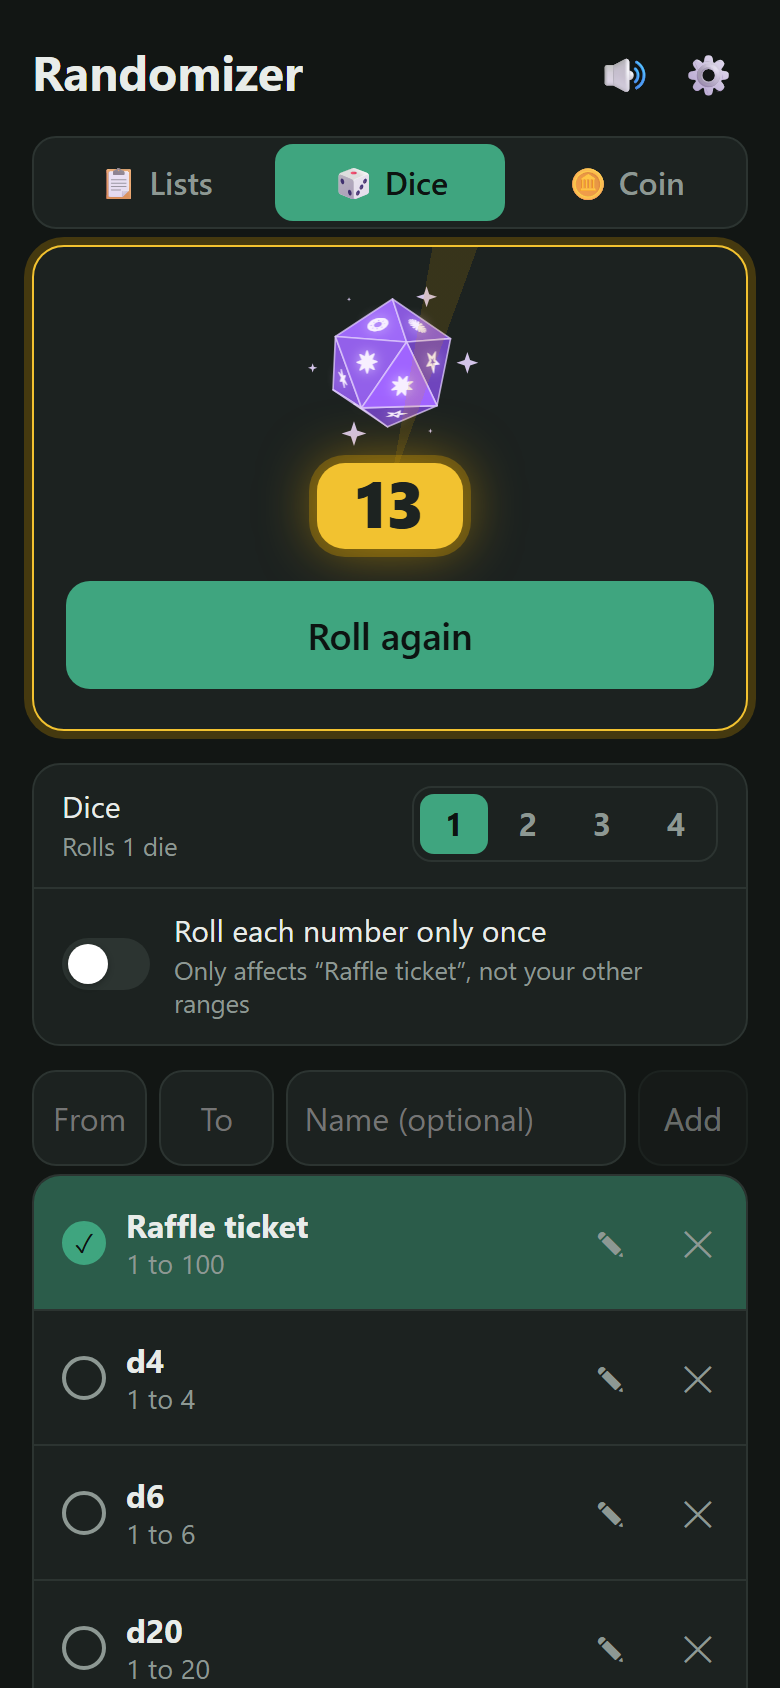
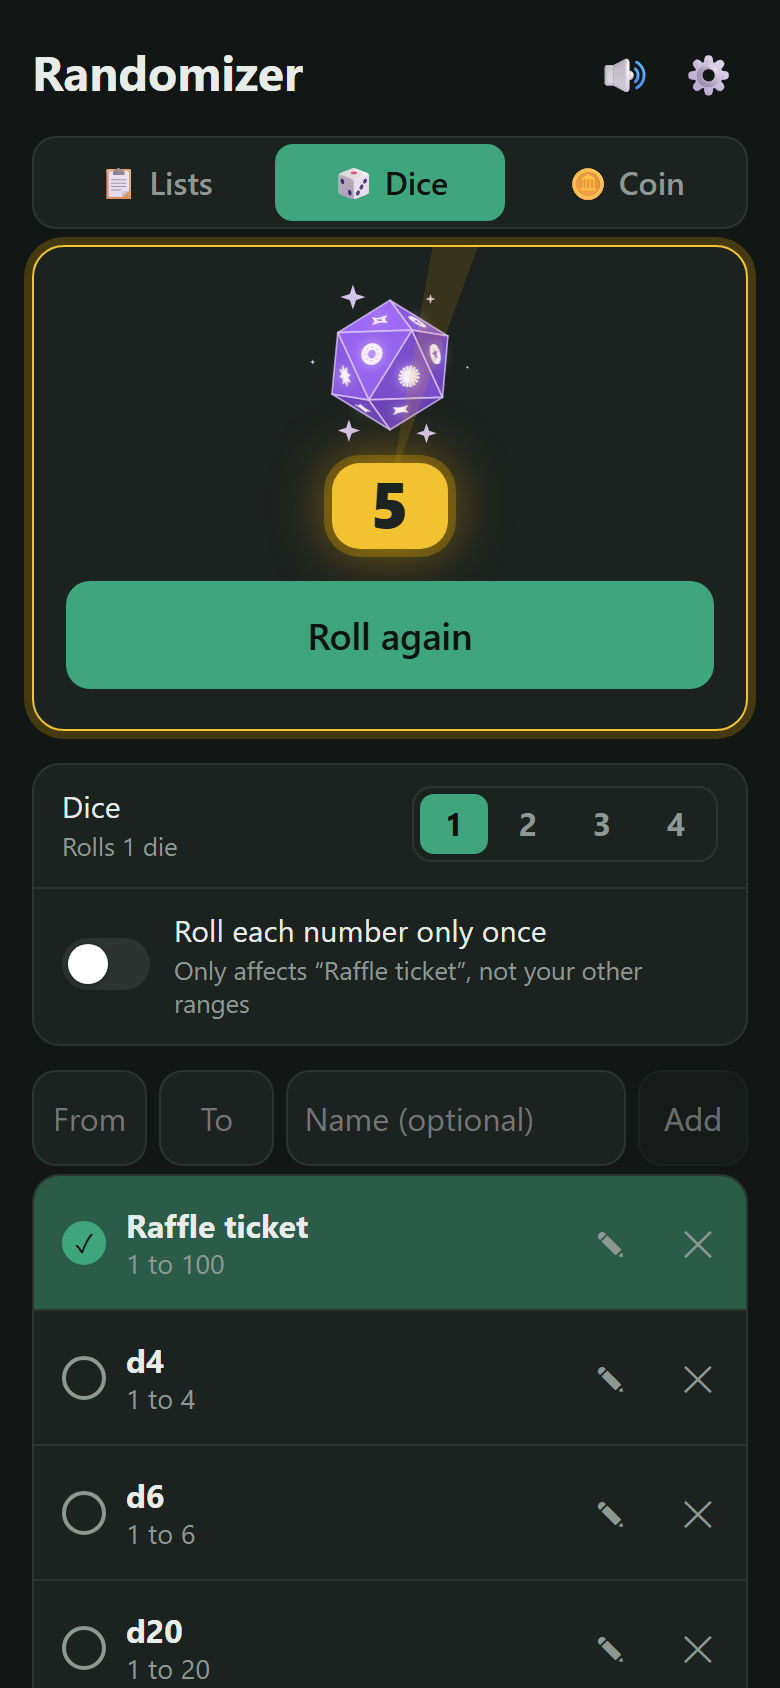
Dice roll straight to their face; magic die only spins upright
- A real die tumbles about one fixed axis, worked out backwards from the
  rolled face, so it slows to a stop there with no turn toward it at the end
- The magic die spins upright on a corner and slows to a stop where it is
- README: new "How the dice work" section (which die a range gets, the
  numbers on the faces, the magic die, how a roll is decided and shown)

Changed region(s): [[0.4, 0.154, 0.6154, 0.3389]]

diff --git a/index.html b/index.html
@@ -2700,11 +2700,13 @@ const dice = Array.from({ length: MAX_DICE }, () => {
   $('die').append(canvas);
   return { canvas, ctx: canvas.getContext('2d'), key: '' };
 });
-let diceAnim = null; // { start, ms, settle, last } while the dice spin
-let dieRate = 1;     // spin speed, slowing down along with the ticks
-const SPIN_TURN_MS = 600;
-// full speed at first, about a quarter by the end
-const dieSpeed = (progress) => (spinPause(0) / spinPause(progress)) ** 0.7;
+let diceAnim = null; // { start, ms } while the dice roll
+const TURN_MS = 600;  // how long one full turn takes at the start of a roll
+// How far through its turning a die is (0–1) at a point of the roll (0–1):
+// fast at first, slowing to a stop exactly at the end.
+const slowDown = (x) => 1 - (1 - x) ** 3;
+// upright with a corner on top, turned by angle (how a magic die spins)
+const upright = (d, angle) => qMul(qAxis([0, 1, 0], angle), qFromTo(d.shape.v[0], [0, 1, 0]));
 
 // Gives the shown dice the range's shape and numbers; keeps where they rest
 // unless the range changed.
@@ -2722,11 +2724,12 @@ function setupDice(range) {
     if (d.canvas.width !== px) d.canvas.width = d.canvas.height = px;
     if (d.key === key) return;
     d.key = key;
-    Object.assign(d, look, { shape: SHAPES[look.sides], glow: false, target: null });
+    Object.assign(d, look, { shape: SHAPES[look.sides], target: null });
     d.labels = d.shape.faces.map(f => look.magic ? magicSymbol() : String(range.from + (f.num - 1) % size));
-    // at rest it shows the highest number (or any symbol)
+    // at rest a real die shows its highest number; a magic die stands on a corner
     const top = d.shape.faces.reduce((a, f) => f.num > a.num ? f : a);
-    d.q = restPose(top, look.sides);
+    d.angle = 0.5;
+    d.q = look.magic ? upright(d, d.angle) : restPose(top, look.sides);
   });
 }
 
@@ -2764,8 +2767,7 @@ function drawDie(d, now) {
     f.idx.forEach((m, t) => (t ? ctx.lineTo : ctx.moveTo).call(ctx, ...corners[m]));
     ctx.closePath();
     if (d.magic) {
-      const glow = d.glow && fi === d.landedFace ? 1.35 : 1;
-      ctx.fillStyle = `rgb(${Math.min(255, (40 + 120 * lit) * glow)}, ${Math.min(255, (14 + 92 * lit) * glow)}, ${Math.min(255, (100 + 150 * lit) * glow)})`;
+      ctx.fillStyle = `rgb(${40 + 120 * lit}, ${14 + 92 * lit}, ${100 + 150 * lit})`;
       ctx.fill();
       ctx.strokeStyle = 'rgba(226, 206, 255, .75)';
     } else {
@@ -2830,40 +2832,45 @@ function drawSparkles(ctx, W, now, d) {
   }
 }
 
-// Starts the dice spinning upright (a corner on top) for ms, slowing down with
-// the ticks, and settling at the end on a face showing each die's value.
+// Rolls the dice for ms. A real die tumbles about one fixed axis and slows to a
+// stop: the tumbling is worked out backwards from the face it lands on, so it
+// simply rolls to a stop there, with no turning toward it at the end. A magic
+// die spins upright on a corner and slows to a stop wherever it is.
 function rollDice(range, values, ms) {
   setupDice(range);
+  // at the start a die turns about once per TURN_MS; slowDown spreads that out
+  const turns = ms / TURN_MS / 3;
   dice.forEach((d, i) => {
     if (d.canvas.hidden) return;
-    const faces = d.shape.faces.map((f, fi) => fi).filter(fi => d.magic || d.labels[fi] === String(values[i]));
-    d.landedFace = faces[randomInt(faces.length)];
-    d.target = restPose(d.shape.faces[d.landedFace], d.sides);
     d.from = d.q;
-    d.base = qFromTo(d.shape.v[0], [0, 1, 0]);
-    d.angle = Math.random() * Math.PI * 2;
-    d.speed = 0.9 + Math.random() * 0.2;
     d.seed = Math.random() * 6;
-    d.glow = false;
+    d.total = Math.PI * 2 * Math.max(1, turns) * (0.9 + Math.random() * 0.2);
+    if (d.magic) {
+      d.angle0 = d.angle;
+      d.angle = d.angle0 + d.total;
+      d.target = upright(d, d.angle);
+      return;
+    }
+    const faces = d.shape.faces.map((f, fi) => fi).filter(fi => d.labels[fi] === String(values[i]));
+    d.target = restPose(d.shape.faces[faces[randomInt(faces.length)]], d.sides);
+    // mostly forward over its top, a little to the side, different for each die
+    d.axis = unit([1, (Math.random() - 0.5) * 0.8, (Math.random() - 0.5) * 0.6]);
   });
-  dieRate = 1;
   if (ms <= 0) { landDice(); return; }
-  diceAnim = { start: performance.now(), ms, settle: Math.min(700, ms * 0.35), last: performance.now() };
+  diceAnim = { start: performance.now(), ms };
   requestAnimationFrame(diceFrame);
 }
 
 function diceFrame(now) {
   if (!diceAnim) return;
-  const e = now - diceAnim.start;
-  const dt = Math.min(50, Math.max(0, now - diceAnim.last));
-  diceAnim.last = now;
+  const e = Math.max(0, now - diceAnim.start);
+  const done = slowDown(Math.min(1, e / diceAnim.ms));
   for (const d of dice) {
     if (d.canvas.hidden || !d.target) continue;
-    d.angle += dt / SPIN_TURN_MS * Math.PI * 2 * dieRate * d.speed;
-    let q = qMul(qAxis([0, 1, 0], d.angle), d.base);
-    if (e < 220) q = qSlerp(d.from, q, ease(Math.max(0, e) / 220)); // from rest into the spin
-    const s = (e - (diceAnim.ms - diceAnim.settle)) / diceAnim.settle;
-    if (s > 0) q = qSlerp(q, d.target, ease(Math.min(1, s)));       // settling on the rolled face
+    let q = d.magic
+      ? upright(d, d.angle0 + d.total * done)
+      : qMul(qAxis(d.axis, d.total * (1 - done)), d.target); // the turning still to go, ending at the face
+    if (e < 220) q = qSlerp(d.from, q, ease(e / 220)); // from rest into the roll
     d.q = q;
   }
   drawDice(now);
@@ -2875,14 +2882,10 @@ function shuffleMagic() {
   for (const d of dice) if (!d.canvas.hidden && d.magic) d.labels = d.labels.map(magicSymbol);
 }
 
-// The dice come to rest on their rolled faces; a magic die's face lights up.
+// The dice come to rest where their roll ends.
 function landDice() {
   diceAnim = null;
-  for (const d of dice) {
-    if (d.canvas.hidden || !d.target) continue;
-    d.q = d.target;
-    d.glow = true;
-  }
+  for (const d of dice) if (!d.canvas.hidden && d.target) d.q = d.target;
   drawDice();
 }
 
@@ -2959,7 +2962,6 @@ function rollNumber() {
       const progress = tick / total;
       const delay = spinDelay(progress);
       sfx.tick(progress);
-      dieRate = dieSpeed(progress);
       if (magic) shuffleMagic();
       if (navigator.vibrate) navigator.vibrate(5);
       setTimeout(spin, delay);

diff --git a/sw.js b/sw.js
@@ -1,5 +1,5 @@
 // Bump the version when you change any file so phones pick up the update.
-const CACHE = 'whostarts-v68';
+const CACHE = 'whostarts-v69';
 const FILES = ['./', 'index.html', 'manifest.json', 'icon-192.png', 'icon-512.png'];
 
 // 'reload' skips the browser's own HTTP cache, so a new version really gets

diff --git a/README.md b/README.md
@@ -54,18 +54,42 @@ Switch to **🎲 Dice** at the top to roll dice, or any random number, instead o
 1. **Add a range** with the **From**, **To** and **Name (optional)** fields and **Add**. The Add button stays greyed out until From and To are whole numbers. Any whole numbers work, even 1 to 1,000,000. You start with the dice *d4* (1 to 4), *d6* (1 to 6), *d12* (1 to 12), *d20* (1 to 20) and *2d6* (2 dice, each 1 to 6, added up), which you can rename, change or remove.
 2. **Tap a range** to choose it. It gets a ✓.
 3. **Choose how many dice** it rolls with **Dice 1 2 3 4** above the ranges. With several dice, each die is rolled on its own and they're added up, just like real dice: with 2d6 a 7 comes up six times as often as a 2 or a 12. The row then reads *2 dice, each 1 to 6*, and the hint uses the range's name, like *Tap Roll! to roll “2d6”*.
-4. **Tap Roll!** (or shake your phone). The dice spin on a corner while numbers race past, slow down with them, and come to rest showing the face they rolled. The number is picked at random from the range, both ends included. With several dice, the total shows in the gold badge with the dice under it, like *4 + 5*.
+4. **Tap Roll!** (or shake your phone). The dice tumble while numbers race past, slow down, and come to rest showing the face they rolled. With several dice, the total shows in the gold badge with the dice under it, like *4 + 5*. See [How the dice work](#how-the-dice-work) below.
 5. **Change a range** with its **✎**: the row turns into From, To and Name fields with a green **Save** button. Change what you like and tap Save or press Enter (Esc cancels). Numbers are put in order if you swap them, and a range you already have is not added twice. **✕** removes a range (tap the red **Delete** to confirm, or **Cancel**).
-
-**Real dice shapes:** each range rolls a real-looking 3D die when one fits: a **d4**, **d6**, **d8**, **d10**, **d12** or **d20**. The faces show the range's own numbers, so *5 to 9* rolls a d10 numbered 5 to 9 (each number twice), and *1 to 3* rolls a d6 with each number twice, just like real d3s. A plain 1 to 6 die has dots. Opposite faces add up the same way as on real dice, and 6 and 9 are underlined so they can't be mixed up.
-
-**The magic die ✨:** some ranges have no real die, like 1 to 7, 1 to 100 or 1001 to 1020 (numbers too long for the faces). They roll a purple, glowing **magic d20** instead. Twinkling symbols swap on its faces while it spins, and when it lands, its number flies out into the gold badge.
 
 **Roll each number only once:** switch this on for a range when the same number must not come up twice, like drawing raffle tickets. Numbers already rolled sit out, the switch shows how many have been rolled, and when every number has been rolled the button turns into **↺ Start over**. The setting is saved per range, and works with one die.
 
 **Recent rolls:** under the ranges, *🕘 Recent rolls* keeps your last 100 rolls across all ranges. Each result shows in a small gold badge, with what was rolled next to it, like *2d6: 4 + 5* or *10 to 30*. It shows the newest 10; tap *Show all* to see the rest.
 
 Your ranges are remembered and included in backups. `https://neckfors.github.io/randomizer/#dice` opens straight in Dice mode (older `#number` links still work).
+
+### How the dice work
+
+**Which die a range gets.** Every range is rolled with a real-looking 3D die whenever a real die can do it fairly. Otherwise it gets the magic die:
+
+| Range | Die | Faces |
+|---|---|---|
+| 4 numbers | d4 | each number once |
+| 1 number | d4 | the same number on every face |
+| 2 numbers | d4 | each number twice |
+| 6 numbers | d6 | each number once (dots for a plain 1 to 6) |
+| 3 numbers | d6 | each number twice, like a real d3 |
+| 8 numbers | d8 | each number once |
+| 10 numbers | d10 | each number once |
+| 5 numbers | d10 | each number twice |
+| 12 numbers | d12 | each number once |
+| 20 numbers | d20 | each number once |
+| anything else (7, 9, 15, 37, 100, …) | magic d20 | twinkling symbols |
+
+The faces always show the range's own numbers, so *5 to 9* is a d10 with 5, 6, 7, 8 and 9 on it twice, and *95 to 100* is a cube with 95 to 100. The numbers must fit on the faces: up to 2 characters on the small triangles of the d4, d8 and d20, and up to 3 on the bigger faces of the d6, d10 and d12 (a minus sign counts). Longer numbers, like *1001 to 1020*, also get the magic die.
+
+Like real dice, opposite faces add up to the same total (1 and 6, 2 and 5, 3 and 4 on a d6), and 6 and 9 are underlined so they can't be mixed up.
+
+**The magic die ✨** is a purple, glowing d20 for ranges no real die can roll. Twinkling symbols swap on its faces while it spins upright on a corner, it slows to a stop, and its number flies out into the gold badge.
+
+**How a roll works.** The number is chosen first, completely at random. Every number in the range has the same chance, using the browser's secure random numbers (`crypto.getRandomValues`). The die's tumble is then worked out backwards from the face showing that number. It turns about one fixed axis and slows down so that it comes to rest exactly on that face, like a real die rolling to a stop, without turning toward the number at the end. When a number is on a die twice, one of its faces is picked at random. The animation only shows the result; it never decides it.
+
+**Several dice** are each rolled on their own and added up, just like real dice. So with 2d6, a 7 (six ways to make it) comes up six times as often as a 2 or a 12 (one way each). Each die lands on its own number, shown under the total, like *4 + 5*.
 
 ## Flipping a coin 🪙
 
@@ -130,7 +154,7 @@ Plain HTML, CSS and JavaScript, with no build step or dependencies.
 ### Making changes
 
 Edit the files and push to `main`. GitHub Pages publishes automatically.
-**Change `CACHE` in `sw.js` every time** (for example `whostarts-v68` → `whostarts-v69`), otherwise installed copies keep showing the old version and the update bar never appears.
+**Change `CACHE` in `sw.js` every time** (for example `whostarts-v69` → `whostarts-v70`), otherwise installed copies keep showing the old version and the update bar never appears.
 
 ## Support
 
